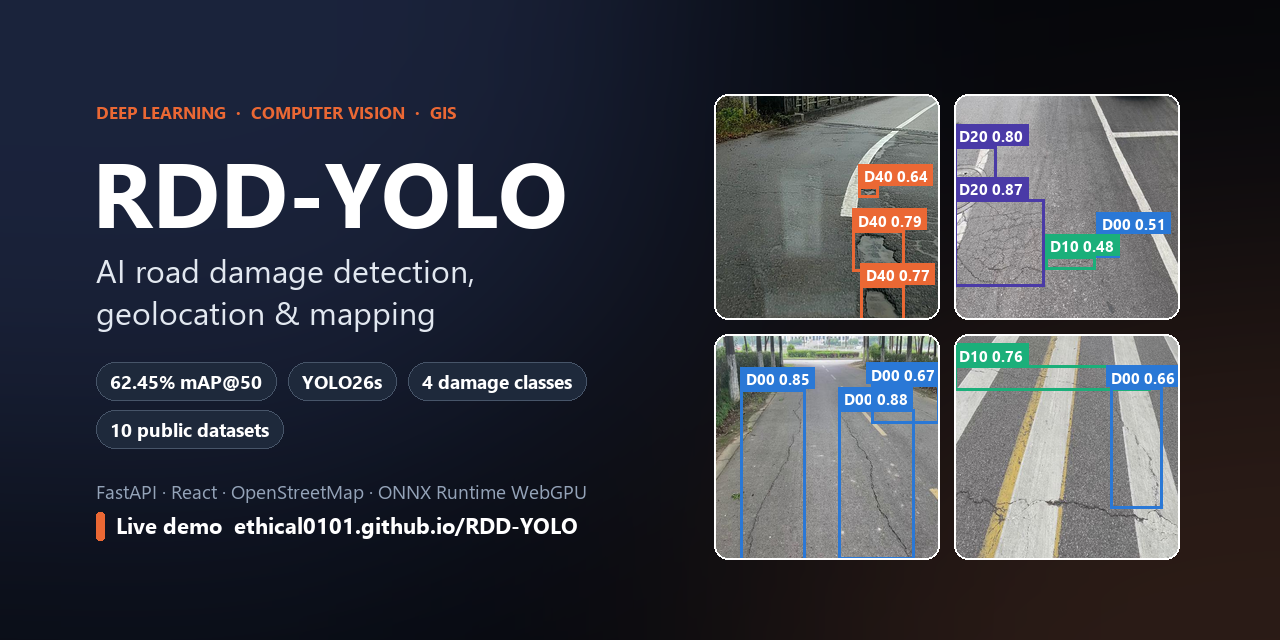
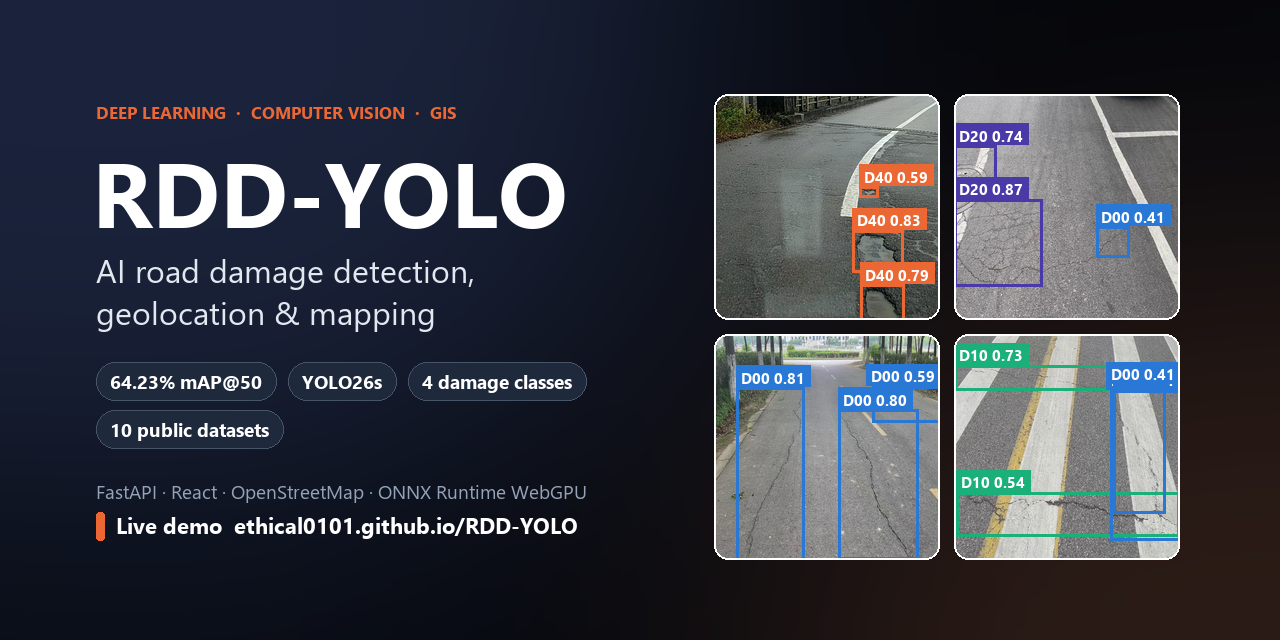
Serve Experiment F2 (YOLO26s, 800 px, 64.23% mAP@50) in the app and the browser demo
- Inference resolution defaults to the checkpoint's training size (RDD_MODEL_IMGSZ=0)
- Browser engine reads the anchor count from the ONNX output; demo model exported at 800 px
- README results, experiments doc and social preview updated with F2 and bootstrap CIs

diff --git a/frontend/src/lib/engine.ts b/frontend/src/lib/engine.ts
@@ -1,6 +1,6 @@
 /**
  * In-browser inference with ONNX Runtime Web (static deployment).
- * Mirrors the server pipeline: letterbox to 640 (pad 114) -> YOLO26 head [1, 8, 8400]
+ * Mirrors the server pipeline: letterbox to SIZE (pad 114) -> YOLO26 head [1, 8, N] (N = 13125 anchors at 800 px)
  * (cx, cy, w, h + 4 class scores) -> confidence filter -> class-wise NMS (IoU 0.7) -> map to image.
  * Verified against the PyTorch model: identical classes/confidences, boxes within 1 px.
  */
@@ -10,7 +10,9 @@ import type { ClassCode, DetectionResult, SeverityLevel } from './types'
 
 const CODES: ClassCode[] = ['D00', 'D10', 'D20', 'D40']
 const NAMES: Record<ClassCode, string> = { D00: 'Longitudinal Crack', D10: 'Transverse Crack', D20: 'Alligator Crack', D40: 'Pothole' }
-const SIZE = 640
+/** Served model: Experiment F2 (YOLO26s fine-tuned at 800 px), exported by scripts/export_static_site.py. */
+export const MODEL_VERSION = 'yolo26s_ft800_best'
+const SIZE = 800
 
 ort.env.wasm.wasmPaths = 'https://cdn.jsdelivr.net/npm/onnxruntime-web@1.30.0/dist/'
 ort.env.wasm.numThreads = 1 // GitHub Pages cannot enable cross-origin isolation (needed for threads)
@@ -23,7 +25,7 @@ export function loadModel(): Promise<ort.InferenceSession> {
   if (session) return Promise.resolve(session)
   if (!loading) {
     loading = (async () => {
-      const url = asset('/data/model/yolo26s_full_best.onnx')!
+      const url = asset(`/data/model/${MODEL_VERSION}.onnx`)!
       const providers: string[][] = 'gpu' in navigator ? [['webgpu'], ['wasm']] : [['wasm']]
       let last: unknown
       for (const ep of providers) {
@@ -88,8 +90,9 @@ export async function detect(source: CanvasImageSource & { width: number; height
   const t0 = performance.now()
   const out = await s.run({ [s.inputNames[0]]: new ort.Tensor('float32', input, [1, 3, SIZE, SIZE]) })
   const ms = performance.now() - t0
-  const data = out[s.outputNames[0]].data as Float32Array
-  const n = 8400
+  const t = out[s.outputNames[0]]
+  const data = t.data as Float32Array
+  const n = t.dims[2]
   const cand: { b: number[]; c: number; s: number }[] = []
   for (let i = 0; i < n; i++) {
     let best = 0, k = 0

diff --git a/frontend/src/lib/staticApi.ts b/frontend/src/lib/staticApi.ts
@@ -5,14 +5,13 @@
  */
 import exifr from 'exifr'
 import { get, set } from 'idb-keyval'
-import { backend, detect, loadModel } from './engine'
+import { backend, detect, loadModel, MODEL_VERSION } from './engine'
 import { asset } from './staticMode'
 import type { ClassCode, DetectionResult, Inference, StoredDetection } from './types'
 
 const CODES: ClassCode[] = ['D00', 'D10', 'D20', 'D40']
 const NAMES: Record<ClassCode, string> = { D00: 'Longitudinal Crack', D10: 'Transverse Crack', D20: 'Alligator Crack', D40: 'Pothole' }
 const COLORS: Record<ClassCode, string> = { D00: '#2a78d6', D10: '#1baf7a', D20: '#4a3aa7', D40: '#eb6834' }
-const MODEL_VERSION = 'yolo26s_full_best'
 const KEY = 'rdd-yolo-db-v1'
 
 interface DB { nextInf: number; nextDet: number; inferences: Inference[] }

diff --git a/backend/app/services/model_service.py b/backend/app/services/model_service.py
@@ -10,8 +10,8 @@ from ..core.config import get_settings
 
 log = logging.getLogger(__name__)
 
-# Preference when no checkpoint is configured: Exp E (YOLO26s), Exp D (extended v2), Exp C (extended), RDD-YOLO (Exp B), baseline.
-_PREFERRED = ["yolo26s_full_best.pt", "rdd_yolo26n_ext2_best.pt", "rdd_yolo26n_ext_best.pt", "rdd_yolo26n_best.pt", "rdd_yolo26s_best.pt", "baseline_yolo26n_best.pt", "baseline_yolo26s_best.pt"]
+# Preference when no checkpoint is configured: Exp F2 (YOLO26s, 800 px), Exp E (YOLO26s), Exp D (extended v2), Exp C (extended), RDD-YOLO (Exp B), baseline.
+_PREFERRED = ["yolo26s_ft800_best.pt", "yolo26s_full_best.pt", "rdd_yolo26n_ext2_best.pt", "rdd_yolo26n_ext_best.pt", "rdd_yolo26n_best.pt", "rdd_yolo26s_best.pt", "baseline_yolo26n_best.pt", "baseline_yolo26s_best.pt"]
 
 
 class ModelService:
@@ -55,7 +55,7 @@ class ModelService:
                 log.warning(self._error)
                 return None
             try:
-                self._detector = Detector(path, device=s.model_device or None, imgsz=s.model_imgsz)
+                self._detector = Detector(path, device=s.model_device or None, imgsz=s.model_imgsz or None)
                 self._error = None
                 log.info("Loaded model %s on %s", path.name, self._detector.device)
             except Exception as exc:  # keep API alive, report the real error

diff --git a/scripts/make_social_preview.py b/scripts/make_social_preview.py
@@ -1,7 +1,7 @@
 """Render the GitHub social preview card (1280x640) -> docs/social-preview.png.
 
 The four tiles are real detections of the served YOLO26s model on held-out demo images (demo_images/);
-the metric shown is read from experiments/yolo26s_full/eval_test/metrics.json.
+the metric shown is read from experiments/yolo26s_ft800/eval_test/metrics.json.
 Usage: .venv\\Scripts\\python scripts\\make_social_preview.py
 """
 from __future__ import annotations
@@ -53,7 +53,7 @@ def tile(det: Detector, name: str, size: int) -> Image.Image:
 
 
 def main() -> None:
-    m = json.loads((ROOT / "experiments" / "yolo26s_full" / "eval_test" / "metrics.json").read_text())
+    m = json.loads((ROOT / "experiments" / "yolo26s_ft800" / "eval_test" / "metrics.json").read_text())
     map50 = 100 * m["overall"]["mAP50"]
 
     card = Image.new("RGB", (W, H), (11, 15, 25))
@@ -67,7 +67,7 @@ def main() -> None:
 
     # --- right: 2x2 real detections (inside the 80 px safe border)
     size, gap, x0, y0 = 226, 14, 714, 94
-    det = Detector(ROOT / "models" / "weights" / "yolo26s_full_best.pt")
+    det = Detector(ROOT / "models" / "weights" / "yolo26s_ft800_best.pt")
     for i, (name, caption) in enumerate(TILES):
         t = tile(det, name, size)
         x, y = x0 + (i % 2) * (size + gap), y0 + (i // 2) * (size + gap)

diff --git a/rdd_yolo/detector.py b/rdd_yolo/detector.py
@@ -38,7 +38,7 @@ class Detection:
 class Detector:
     """Thread-safe wrapper around an Ultralytics checkpoint."""
 
-    def __init__(self, weights: str | Path, device: str | None = None, imgsz: int = 640):
+    def __init__(self, weights: str | Path, device: str | None = None, imgsz: int | None = None):
         register_custom_modules()  # required before unpickling RDD-YOLO checkpoints
         from ultralytics import YOLO
 
@@ -51,13 +51,14 @@ class Detector:
 
             device = "0" if torch.cuda.is_available() else "cpu"
         self.device = device
-        self.imgsz = imgsz
         self._lock = threading.Lock()
         names = self.model.names
         if [names[i] for i in sorted(names)] != CLASS_CODES:
             raise ValueError(f"Checkpoint classes {names} do not match expected {CLASS_CODES}")
         meta_file = self.weights.with_suffix(".json")
         self.meta = json.loads(meta_file.read_text()) if meta_file.exists() else {}
+        # Default to the resolution the checkpoint was trained at (e.g. 800 px for Experiment F2).
+        self.imgsz = int(imgsz or self.meta.get("imgsz") or 640)
 
     @property
     def info(self) -> dict:

diff --git a/scripts/export_static_site.py b/scripts/export_static_site.py
@@ -24,8 +24,9 @@ from pathlib import Path
 ROOT = Path(__file__).resolve().parent.parent
 sys.path.insert(0, str(ROOT))
 OUT = ROOT / "deploy" / "static_site"
-WEIGHTS = ROOT / "models" / "weights" / "yolo26s_full_best.pt"
-ONNX = ROOT / "deploy" / "onnx" / "yolo26s_full_best.onnx"
+WEIGHTS = ROOT / "models" / "weights" / "yolo26s_ft800_best.pt"  # Experiment F2; keep in sync with engine.ts
+ONNX = ROOT / "deploy" / "onnx" / f"{WEIGHTS.stem}.onnx"
+IMGSZ = json.loads(WEIGHTS.with_suffix(".json").read_text())["imgsz"]  # trained resolution (800)
 
 
 def export_onnx() -> None:
@@ -39,7 +40,7 @@ def export_onnx() -> None:
     ONNX.parent.mkdir(parents=True, exist_ok=True)
     tmp = ONNX.parent / WEIGHTS.name
     shutil.copy2(WEIGHTS, tmp)  # export next to a copy so nothing is written into models/weights
-    out = Path(YOLO(str(tmp)).export(format="onnx", imgsz=640, opset=17, simplify=True, dynamic=False))
+    out = Path(YOLO(str(tmp)).export(format="onnx", imgsz=IMGSZ, opset=17, simplify=True, dynamic=False))
     out.replace(ONNX)
     tmp.unlink()
 

diff --git a/backend/app/core/config.py b/backend/app/core/config.py
@@ -22,7 +22,7 @@ class Settings(BaseSettings):
     # Checkpoint used for inference. Empty -> auto-select the best available in models/weights.
     model_weights: str = ""
     model_device: str = ""  # "" = auto (CUDA if available), "cpu", "0"
-    model_imgsz: int = 640
+    model_imgsz: int = 0  # 0 = the checkpoint's training resolution
     default_confidence: float = 0.25
 
     outputs_dir: Path = PROJECT_ROOT / "outputs"

diff --git a/README.md b/README.md
@@ -10,7 +10,7 @@ attaches real GPS locations, and maps every detection on OpenStreetMap — train
 
 [![Live Demo](https://img.shields.io/badge/Live_Demo-ethical0101.github.io%2FRDD--YOLO-2ea44f?style=for-the-badge&logo=githubpages&logoColor=white)](https://ethical0101.github.io/RDD-YOLO/)
 
-[![mAP@50](https://img.shields.io/badge/RDD2022_test_mAP@50-62.45%25-blue)](docs/experiments.md)
+[![mAP@50](https://img.shields.io/badge/RDD2022_test_mAP@50-64.23%25-blue)](docs/experiments.md)
 [![Model](https://img.shields.io/badge/model-YOLO26s-orange)](https://docs.ultralytics.com/)
 [![Ultralytics](https://img.shields.io/badge/Ultralytics-8.4.174-111F68)](https://github.com/ultralytics/ultralytics)
 [![PyTorch](https://img.shields.io/badge/PyTorch-2.14_CUDA_13-EE4C2C?logo=pytorch&logoColor=white)](https://pytorch.org/)
@@ -68,32 +68,39 @@ never leave your browser (stored in IndexedDB). For GPU speed and the Python bac
 
 Measured on held-out test sets (no test image is ever used for training; see [leakage control](docs/datasets.md#leakage-control)).
 
-### Served model — Experiment E (YOLO26s), original RDD2022 test split (2,023 images)
+### Served model — Experiment F2 (YOLO26s fine-tuned at 800 px), original RDD2022 test split (2,023 images)
 
 | Metric | Value |
 |---|---|
-| **mAP@50** | **62.45 %** |
-| mAP@50-95 | 32.36 % |
-| Precision | 64.22 % |
-| Recall | 57.75 % |
-| F1 | 60.81 % |
-| Per class mAP@50 | D00 70.0 % · D10 61.6 % · D20 66.4 % · D40 51.8 % |
-| Size / speed | 9.95 M params · 19.4 MB · 71 FPS (RTX 3050, batch 1) |
+| **mAP@50** | **64.23 %** (63.6 % on the 1,804-image subset without near-duplicates of training images) |
+| mAP@50-95 | 33.39 % |
+| Precision | 65.81 % |
+| Recall | 58.82 % |
+| F1 | 62.12 % |
+| Per class mAP@50 | D00 72.2 % · D10 62.1 % · D20 68.5 % · D40 54.2 % |
+| Size / speed | 9.95 M params · 19.4 MB · 800 px input · 50 FPS (RTX 3050, batch 1) |
+
+F2 continues Experiment E for 10 epochs at 800 px. Paired bootstrap (1,000 resamples): +2.4 pp mAP@50 over E on the
+RDD2022 test (95 % CI +1.5 to +3.4) and +3.8 pp on a new-country test set from Rome (CI +0.9 to +7.0). Details:
+[Experiment F results](docs/diagnostics/EXPERIMENT_F_RESULTS.md) · [accuracy diagnosis](docs/diagnostics/ACCURACY_DIAGNOSIS.md) ·
+[Rome generalization](docs/diagnostics/ROME_GENERALIZATION.md).
 
 ### All experiments (mAP@50)
 
-| Test set | A Baseline YOLO26n | B RDD-YOLO26n | C + data | D + close-up | **E YOLO26s** |
-|---|---|---|---|---|---|
-| Original RDD2022 test (2,023) | 59.66 % | 59.46 % | 60.50 % | 61.02 % | **62.45 %** |
-| Norway + China Drone (532) | – | 12.92 % | 33.37 % | 33.71 % | **40.85 %** |
-| Ground-level potholes (221) | – | 18.34 % | 44.61 % | 55.56 % | **58.83 %** |
-| Close-up potholes (235) | – | 21.41 % | 38.06 % | 63.88 % | **67.17 %** |
-| Pavement-distress sources (1,803) | – | – | – | 22.96 % | **58.96 %** |
+| Test set | A Baseline YOLO26n | B RDD-YOLO26n | C + data | D + close-up | E YOLO26s | **F2 YOLO26s 800 px** |
+|---|---|---|---|---|---|---|
+| Original RDD2022 test (2,023) | 59.66 % | 59.46 % | 60.50 % | 61.02 % | 62.45 % | **64.23 %** |
+| Norway + China Drone (532) | – | 12.92 % | 33.37 % | 33.71 % | 40.85 % | **43.72 %** |
+| Ground-level potholes (221) | – | 18.34 % | 44.61 % | 55.56 % | 58.83 % | **59.79 %** |
+| Close-up potholes (235) | – | 21.41 % | 38.06 % | 63.88 % | **67.17 %** | 66.32 % |
+| Pavement-distress sources (1,803) | – | – | – | 22.96 % | 58.96 % | **59.31 %** |
 
 * **A vs B (paper replication):** the RDD-YOLO modifications matched the baseline's accuracy (differences < 0.3 pp)
   with 3.6 % fewer parameters but 8 % lower FPS at nano scale / 40 epochs — the paper's gains (YOLOv8x, 180 epochs)
   were not reproduced in this setting, and this is reported as measured.
 * **C → E:** more (de-duplicated, licensed) data, then a larger model, improved every test set.
+* **E → F2:** training longer (+1.5 pp, significant) and at 800 px (+0.8 pp in domain, +4 pp on the Rome set) helps small damage; close-up potholes dipped 0.9 pp.
+* **New country (Rome, 634 images, potholes only):** E 25.7 % → F2 28.3 % mAP@50 — domain shift remains the main weakness.
 * For context: the RDD-YOLO paper reports 62.5 % mAP@50 with YOLOv8x on an RTX 4090; setups differ, so numbers
   are not directly comparable.
 

diff --git a/docs/experiments.md b/docs/experiments.md
@@ -136,7 +136,7 @@ Unmodified YOLO26**s** (s scale) initialised with the official COCO weights in *
 | Pavement-distress sources (new) (1803 imgs) | mAP@50 | 22.96 | 58.96 | +36.00 |
 | Pavement-distress sources (new) (1803 imgs) | mAP@50-95 | 10.61 | 31.14 | +20.53 |
 
-Size/speed: 2,415,600 → 9,950,960 parameters, 4.97 → 19.37 MB, 83.7 → 70.7 FPS end-to-end (batch 1). **Experiment E is the model served by the application** (`models/weights/yolo26s_full_best.pt`). D and E differ in architecture, scale, initialisation, data and epochs at once, so the comparison shows the overall effect, not the contribution of any single factor.
+Size/speed: 2,415,600 → 9,950,960 parameters, 4.97 → 19.37 MB, 83.7 → 70.7 FPS end-to-end (batch 1). Experiment E was the served model until Experiment F2 (YOLO26s fine-tuned at 800 px, `models/weights/yolo26s_ft800_best.pt`, 64.23 % mAP@50) replaced it; see [Experiment F results](diagnostics/EXPERIMENT_F_RESULTS.md). D and E differ in architecture, scale, initialisation, data and epochs at once, so the comparison shows the overall effect, not the contribution of any single factor.
 
 ## Generated artefacts
 
